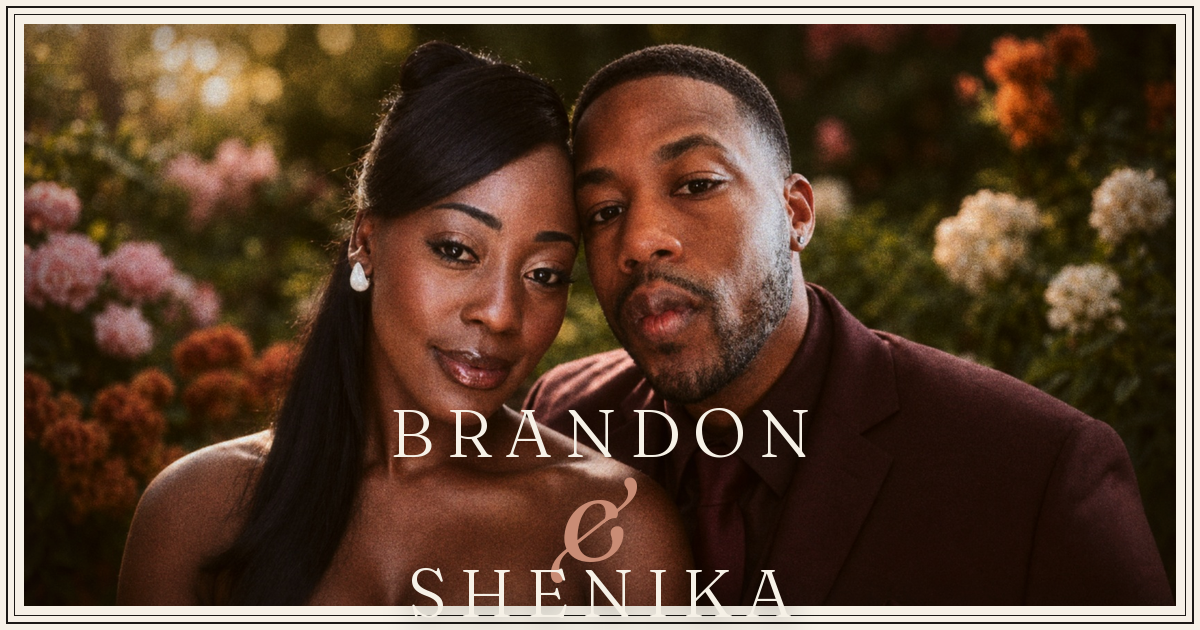
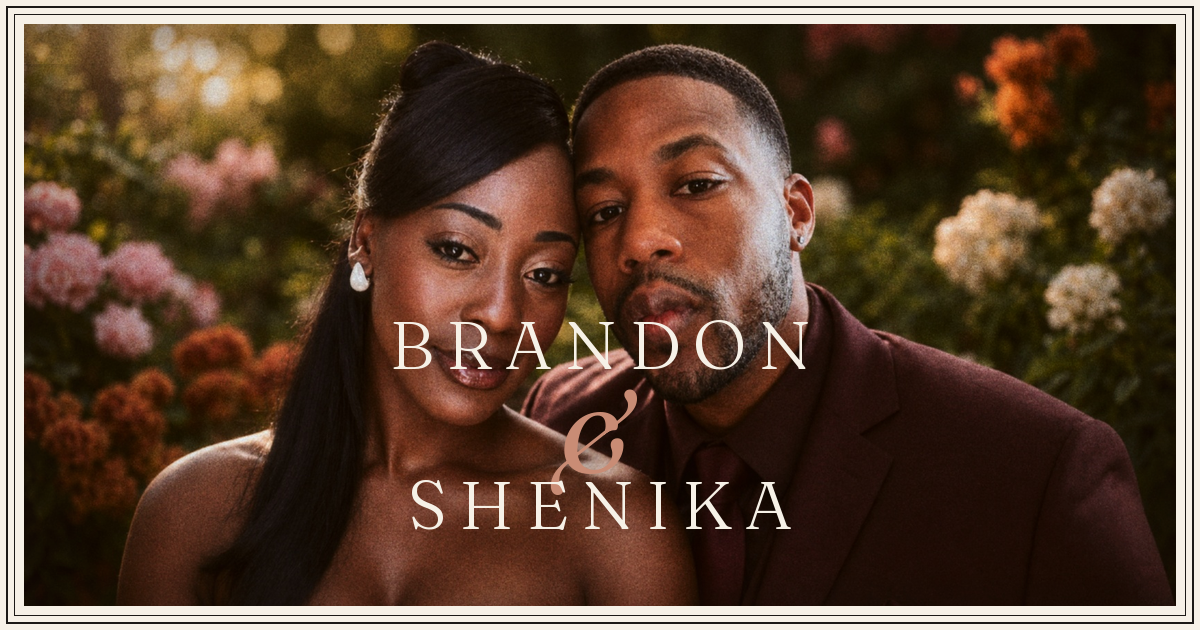
Lift OG/share text overlay; remove empty paper canyon above footer
Two fixes from the screenshots:

1. OG share image had SHENIKA clipping at the bottom edge. Lift
   base_y from 0.62h to 0.48h in the inscription positioning so all
   three lines (Brandon / & / Shenika) sit comfortably with breathing
   room below. Crop and treatment unchanged. Regenerated all four
   assets (icon, apple-icon, opengraph, twitter).

2. Big empty space between the category stripe and the footer on
   the home page. Cause: .c-footer has margin-top: clamp(64-120px)
   from c.css that compounds with the c-section padding. Kill it
   on the portrait variant via :has() — footer now sits tight after
   the registry section ends.

Changed region(s): [[0.3083, 0.6333, 0.6783, 0.9952], [0.3083, 0.5127, 0.6783, 0.6032]]

diff --git a/app/d/d.css b/app/d/d.css
@@ -412,6 +412,14 @@
   padding-bottom: clamp(36px, 6vw, 64px);
 }
 
+/* Kill the footer's giant margin-top on the portrait variant —
+   default is clamp(64px, 10vw, 120px) which compounds with the
+   already-tightened section padding to leave a big paper canyon
+   between the category stripe and the footer. */
+.c-hero:has(.d-feature--portrait) ~ .c-footer {
+  margin-top: 0;
+}
+
 @media (max-width: 800px) {
   .c-hero:has(.d-feature--portrait) + .c-section {
     padding-top: 28px;
